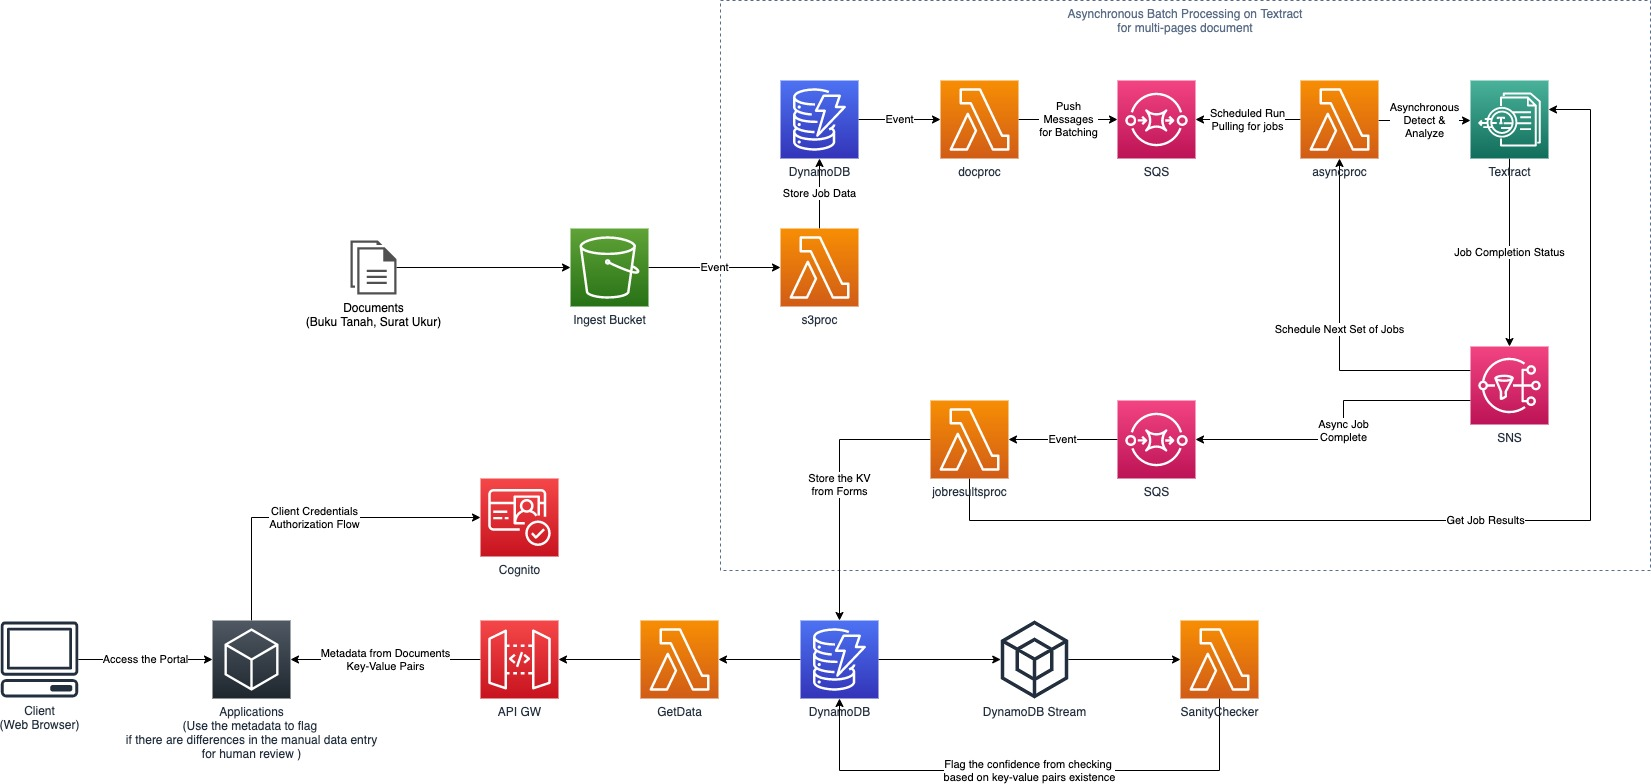
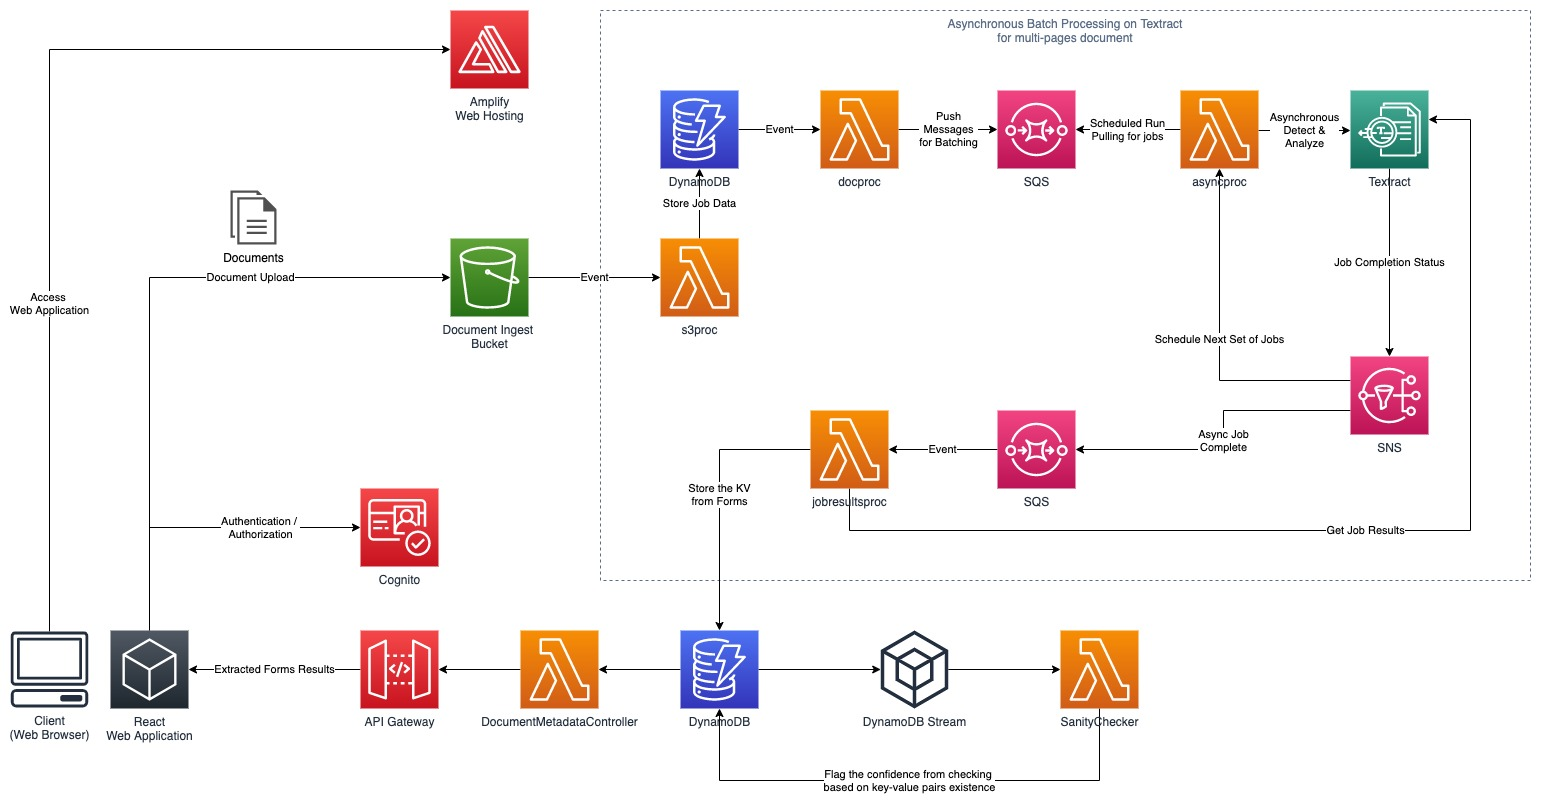
Updating display and documentation

diff --git a/web-ui/src/App.js b/web-ui/src/App.js
@@ -16,6 +16,7 @@ const styles = theme => ({
   },
   paper: {
     padding: theme.spacing(1),
+    'margin-bottom': theme.spacing(1),
     color: theme.palette.text.secondary,
   },
   button: {
@@ -111,7 +112,7 @@ class App extends Component {
               AWS Textract Document Processing
             </Typography>
             <Button className={classes.button} variant="contained" color="default" onClick={() => this.refreshDocumentMetadata()}>
-              <RefreshIcon></RefreshIcon>Refresh
+              <RefreshIcon></RefreshIcon>Refresh Data
             </Button>
             <AmplifySignOut />
           </Toolbar>
@@ -120,18 +121,36 @@ class App extends Component {
           <Grid container spacing={1}>
             <Grid item xs={12} sm={4}>
               <Paper className={classes.paper}>
-                <Typography variant="subtitle1">
-                  File Upload Progress is {this.state.progress}% - {this.state.uploadState}
+                <Typography variant="h6">
+                  Document Upload for Processing
                 </Typography>
                 <Button className={classes.button} variant="contained" component="label">
                   {this.state.selectedFileName}
                   <input type="file" onChange={this.handleFileInput} hidden />
                 </Button>
                 <Button className={classes.button} variant="contained" color="primary" onClick={() => this.uploadFile(this.state.selectedFile)}>Upload to S3</Button>
+                <Typography variant="subtitle1">
+                  File Upload Progress is {this.state.progress}% - {this.state.uploadState}
+                </Typography>
+              </Paper>
+              <Paper className={classes.paper}>
+                <Typography variant="h6">
+                  Document Processing Status
+                </Typography>
+                TODO
+              </Paper>
+              <Paper className={classes.paper}>
+                <Typography variant="h6">
+                  Github Repository / Code Reference
+                </Typography>
+                <a target="_blank" rel="noopener noreferrer" href="https://github.com/hendryaw/textract-document-processing">https://github.com/hendryaw/textract-document-processing</a>
               </Paper>
             </Grid>
             <Grid item xs={12} sm={8}>
               <Paper className={classes.paper}>
+                <Typography variant="h4">
+                  Forms Extraction Results in Database
+                </Typography>
                 <ReactJson src={this.state.documentMetadataItems} collapsed={2} enableClipboard={false} displayDataTypes={false} />
               </Paper>
             </Grid>

diff --git a/README.md b/README.md
@@ -8,84 +8,50 @@ This project leverages the form data extraction capability of Amazon Textract to
 For example, many businesses and institutions who are yet to transform their process to become more digitalized are often doing manual data entry for form-based information such as identity card, paper-based registration form, and others. This manual process consumes too much time and is not scalable. The project is designed to improve the process by automating the manual process with the helps of review from the automated verification based on the business logic, as well as human verification.
 
 ## Architecture
-This project is derived from the [Large scale document processing with Amazon Textract](https://github.com/aws-samples/amazon-textract-serverless-large-scale-document-processing) as the base / foundation so all credits goes to the initial Contributor in the linked project page.
+This project is derived from the [Large scale document processing with Amazon Textract](https://github.com/aws-samples/amazon-textract-serverless-large-scale-document-processing) as the base / foundation, so credits goes to the initial contributors in the linked project page.
 
 The following is the high-level architecture diagram. It is implemented using AWS Serverless technology.
 
 ![Diagram](diagram.jpg)
 
-The project leverage on Amazon Textract Asynchronous multi-page processing. It supports detecting and analyzing multi-page PDF files. The workflow is as follows:
-1. Documents is being uploaded into S3 Ingest Bucket with name `documentsbucket`
-2. S3 Ingest Bucket will trigger S3 object created event to `s3proc` Lambda Function which will register the document and job information into a DynamoDB table called `DocumentsTable`
-3. DynamoDB Stream will trigger the `docproc` Lambda Function which will enqueue a message into SQS to list the document as part of the next batch of processing
-4. A Lambda Function with name `asyncproc` is scheduled to run every x minutes that will poll the message from the SQS and will submit the text detection and analysis job to Amazon Textract.
-5. Amazon Textract will process the job asynchronously, once finished it sends the job completed notification to SNS which will post a message into SQS and will trigger a Lambda Function called `jobresultsproc`.
-6. `jobresultsproc` Lambda Function will retrieve the job results, parse it, and will store the detected forms / key-value pairs information into a DynamoDB table called `DocumentMetadata`.
-7. A DynamoDB Stream will trigger the `SanityChecker` Lambda Function that will evaluate the results. The evaluation status will be updated on the record. The evaluation criterias is flexible and can be modified as required by the business logic.
-8. Clients can retrieve the data stored in the DynamoDB table by using Lambda Function `DocumentMetadataController` that is exposed using API Gateway. The API Gateway receive authorization using Cognito Client Credentials flow. Sample of the API call is described in this [section](#api-call-to-the-api-gateway-to-fetch-the-document-metadata).
+The project leverages on Amazon Textract Asynchronous multi-page processing. It supports detecting and analyzing multi-page PDF files. 
+
+The project also includes a frontend project based on React Web that is decoupled from the Backend Processing, Authentication, and API Infrastructure. In this example, the frontend web UI can be hosted on AWS Amplify. 
+
+As the frontend is decoupled from the backend, it can be replaced with new or existing user interfaces that you already have.
+
+The workflow can be summarized as follow:
+1. User access the frontend client, in this case React Web Application.
+2. User then authenticate with Cognito.
+3. Once authenticated, user can start uploading the document into the S3 Ingest Bucket with name `documentsbucket`.
+4. Upon uploaded item, S3 Ingest Bucket will trigger S3 object created event to `s3proc` Lambda Function which will register the document and job information into a DynamoDB table called `DocumentsTable`.
+5. DynamoDB Stream will trigger the `docproc` Lambda Function which will enqueue a message into SQS to list the document as part of the next batch of processing.
+6. A Lambda Function with name `asyncproc` is scheduled to run every x minutes that will poll the message from the SQS and will submit the text detection and analysis job to Amazon Textract.
+7. Amazon Textract will process the job asynchronously, once finished it sends the job completed notification to SNS which will post a message into SQS and will trigger a Lambda Function called `jobresultsproc`.
+8. `jobresultsproc` Lambda Function will retrieve the job results, parse it, and will store the detected forms / key-value pairs information into a DynamoDB table called `DocumentMetadata`.
+9. A DynamoDB Stream will trigger the `SanityChecker` Lambda Function that will evaluate the results. The evaluation status will be updated on the record. The evaluation criterias is flexible and can be modified as required by the business logic.
+10. Client can retrieve the data stored in the DynamoDB table by using Lambda Function `DocumentMetadataController` that is exposed using API Gateway. In this case the React Web Application will fetch the data and display the data in the page.
 
 ## Deploying the Solution
-
 ### Prerequisites
 1. Install NPM here if you haven't: https://www.npmjs.com/get-npm
 2. Install CDK, refer here: https://docs.aws.amazon.com/cdk/latest/guide/getting_started.html#getting_started_install
 
-### Steps
+### Deploying the Backend
 1. Clone the repository
 2. Go to the `textract-pipeline` directory and run `npm install` to restore the packages
 3. Bootstrapping CDK deployment in your AWS account `cdk bootstrap`
-4. Deploy the stack `cdk deploy`
-5. Delete the stack `cdk destroy`
+4. Deploy the stack using `cdk deploy`
+5. Once deployed, you can find the output references that you will use as configuration in the frontend. You can also check the outputs in the CloudFormation console if required.
+6. You can delete the stack by using `cdk destroy`
 
-### Testing
-1. Go to the Amazon S3 Bucket `textractpipeline-documentsbucketxxxx` created by the stack and upload some documents (pdf).
-2. You will be able to see the output of the key-value / forms extraction in the DynamoDB Table `textractpipelineStack-DocumentMetadataTablexxxx`
-3. Fetch the results using HTTP API call, example is described in this [section](#api-call-to-the-api-gateway-to-fetch-the-document-metadata).
-4. Troubleshoot issues by checking on CloudWatch Logs
+### Running the Frontend React Web UI
+1. Modify the `web-ui/src/config.json` file with the outputs from the CDK deployment.
+2. You can run the frontend locally with `npm start` or `yarn start`
+3. If required, you can host the application in Amplify Web Hosting by referring to this [documentation](https://docs.amplify.aws/cli/hosting) and this [documentation](https://docs.amplify.aws/start/getting-started/hosting/q/integration/react).
 
-## Cost Estimates
-The following is the cost estimate based on assumptions.
-https://calculator.aws/#/estimate?id=b3061df249a2bf8b3cd7563307f67ad3c54837d5
-
-The calculator at the moment does not list the Cognito and Amazon Textract service, so please refer to both [Cognito](https://aws.amazon.com/cognito/pricing/) and [Amazon Textract](https://aws.amazon.com/textract/pricing/) pricing page.
-
-Cognito is priced based on the number of Monthly Active Users (MAU), there is a free tier of 50K MAUs that does not expire. Beyond free tier, it is charged starting from $0.0055 per MAU.
-
-Amazon Textract Pricing is as follows:
-1. Detect Document Text: 
-    - $0.0022 per page for the first million
-    - $0.00085 per page for over 1 million.
-    - 
-2. Analyze Document with Forms pricing is as follows:
-    - $0.073 per page for the first million
-    - $0.058 per page for over 1 million
-
-Assumed there are 1000 pages, the costs would be $2.2 + $ 73 = $75.2
-
-## API Call to the API Gateway to fetch the document metadata
-In order to fetch the document metadata, the client must authenticate to Cognito service first.
-The supported authentication in this POC is client credentials flow using client app id and client app secret. The client app id and client app secret can be retrieved from the Cognito on AWS Management Console.
-
-There are 2 resources that is exposed by the API Gateway.
-
-| Resource | Method | Description |
-| ---- | ---- | ---- |
-| / | GET | Get all items in the Document Metadata |
-| /{documentId} | GET | Get a specific item by documentId in the Document Metadata |
-
-The following is an example of creating authenticated HTTP request using `curl` in Linux.
-
-````
-clientid=<app-client-id>
-clientsecret=<app-client-secret>
-cognitodomain=https://<cognito-domain>.auth.ap-southeast-1.amazoncognito.com
-apigatewayendpoint=https://<api-gateway-id>.execute-api.ap-southeast-1.amazonaws.com/prod
-documentId=<documentId>
-
-accesstoken=$(curl -X POST --user $clientid:$clientsecret "${cognitodomain}/oauth2/token?grant_type=client_credentials&scope=https://documentmetadata/read" -H "Content-Type: application/x-www-form-urlencoded" | jq -r ".access_token")
-
-curl -X GET "${apigatewayendpoint}/${documentId}" -H "Content-Type: application/json" -H "Authorization:${accesstoken}"
-````
+### Troubleshooting
+1. Troubleshoot backend issues by checking on CloudWatch Logs
 
 ## Development
 ### Setting up and Deployment
@@ -98,6 +64,7 @@ curl -X GET "${apigatewayendpoint}/${documentId}" -H "Content-Type: application/
 ### Source Code
 | File | Description |
 | ---- | ---- |
+| web-ui/ | Frontend React Web Application. |
 | s3processor/lambda_function.py | Lambda function that handles s3 event for an object creation. |
 | documentprocessor/lambda_function.py | Lambda function that push documents to queues for sync or async pipelines. |
 | asyncprocessor/lambda_function.py | Lambda function that takes documents from a queue and start async Amazon Textract jobs. |
